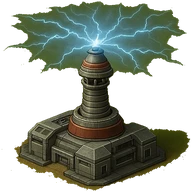
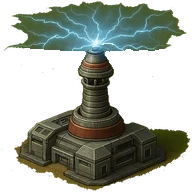
Animate tesla coil charge

Changed region(s): [[0.5312, 0.2188, 0.9688, 0.4062], [0.125, 0.25, 0.4688, 0.375], [0.1875, 0.375, 0.2188, 0.4062]]

diff --git a/src/game/buildingSystem.js b/src/game/buildingSystem.js
@@ -204,13 +204,17 @@ const updateDefensiveBuildings = logPerformance(function updateDefensiveBuilding
         const effectiveCooldown = building.fireCooldown / gameState.speedMultiplier
         if (!building.lastShotTime || now - building.lastShotTime >= effectiveCooldown) {
           if (closestEnemy) {
-            // Play loading sound immediately
+            // Play loading sound and mark coil as charging
             playPositionalSound('teslacoil_loading', centerX, centerY, 1.0)
+            building.teslaState = 'charging'
+            building.teslaChargeStartTime = performance.now()
             
             // Schedule the firing sequence
             setTimeout(() => {
-              // Play firing sound first
+              // Play firing sound and mark as firing
               playPositionalSound('teslacoil_firing', centerX, centerY, 1.0)
+              building.teslaState = 'firing'
+              building.teslaFireStartTime = performance.now()
               
               // Apply effects after a short delay to sync with bolt sound
               setTimeout(() => {
@@ -244,14 +248,27 @@ const updateDefensiveBuildings = logPerformance(function updateDefensiveBuilding
                 }
               }, 200) // Small delay after bolt sound starts
             }, 400) // Delay for loading sound to finish
+
+            // Return to idle state after bolt animation
+            setTimeout(() => {
+              if (building.teslaState === 'firing') {
+                building.teslaState = 'idle'
+                building.teslaChargeStartTime = 0
+                building.teslaFireStartTime = 0
+              }
+            }, 800) // 400ms charge + 400ms bolt
             
             // Create visual lightning effect synchronized with firing sound
             setTimeout(() => {
               const targetX = closestEnemy.x + TILE_SIZE / 2
               const targetY = closestEnemy.y + TILE_SIZE / 2
+              const imgWidth = building.width * TILE_SIZE
+              const imgHeight = building.height * TILE_SIZE
+              const fromX = building.x * TILE_SIZE + imgWidth * (96 / 192)
+              const fromY = building.y * TILE_SIZE + imgHeight * (42 / 192)
               closestEnemy.teslaCoilHit = {
-                fromX: centerX,
-                fromY: centerY,
+                fromX,
+                fromY,
                 toX: targetX,
                 toY: targetY,
                 impactTime: performance.now()
@@ -260,7 +277,7 @@ const updateDefensiveBuildings = logPerformance(function updateDefensiveBuilding
             
             building.lastShotTime = now
             building.firingAt = closestEnemy
-            building.fireStartTime = now
+            building.fireStartTime = performance.now()
           }
         }
       }      // Regular turret logic

diff --git a/src/rendering/buildingRenderer.js b/src/rendering/buildingRenderer.js
@@ -116,6 +116,8 @@ export class BuildingRenderer {
             ctx.restore()
           }
           ctx.restore()
+        } else if (building.type === 'teslaCoil') {
+          this.drawTeslaCoilImage(ctx, img, building, screenX, screenY, width, height)
         } else {
           this.drawBuildingImageNatural(ctx, img, screenX, screenY, width, height)
         }
@@ -164,6 +166,29 @@ export class BuildingRenderer {
     ctx.drawImage(img, screenX, screenY, maxWidth, maxHeight)
     
     // Restore canvas state
+    ctx.restore()
+  }
+
+  drawTeslaCoilImage(ctx, img, building, screenX, screenY, maxWidth, maxHeight) {
+    const SOURCE_HEIGHT = 192
+    const CHARGE_CLIP_START = 51
+    const CHARGE_DURATION = 400
+
+    ctx.save()
+
+    let clipY = CHARGE_CLIP_START
+    if (building.teslaState === 'charging') {
+      const progress = Math.min((performance.now() - (building.teslaChargeStartTime || 0)) / CHARGE_DURATION, 1)
+      clipY = CHARGE_CLIP_START * (1 - progress)
+    } else if (building.teslaState === 'firing') {
+      clipY = 0
+    }
+
+    const sourceHeight = SOURCE_HEIGHT - clipY
+    const destHeight = maxHeight * (sourceHeight / SOURCE_HEIGHT)
+    const destY = screenY + maxHeight - destHeight
+
+    ctx.drawImage(img, 0, clipY, SOURCE_HEIGHT, sourceHeight, screenX, destY, maxWidth, destHeight)
     ctx.restore()
   }
 

diff --git a/src/buildings.js b/src/buildings.js
@@ -265,6 +265,9 @@ export function createBuilding(type, x, y) {
     building.targetDirection = 0 // Direction the turret should face
     if (data.isTeslaCoil) {
       building.isTeslaCoil = true
+      building.teslaState = 'idle'
+      building.teslaChargeStartTime = 0
+      building.teslaFireStartTime = 0
     }
     if (building.type === 'artilleryTurret') {
       building.isArtillery = true
